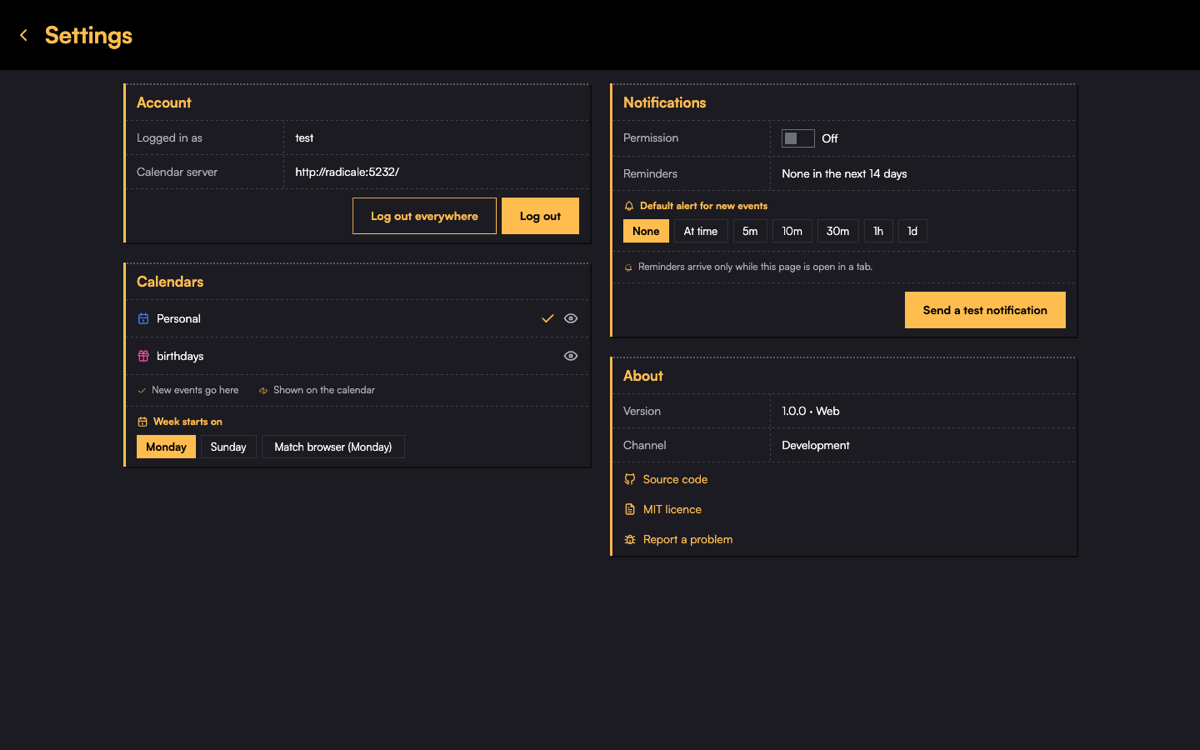
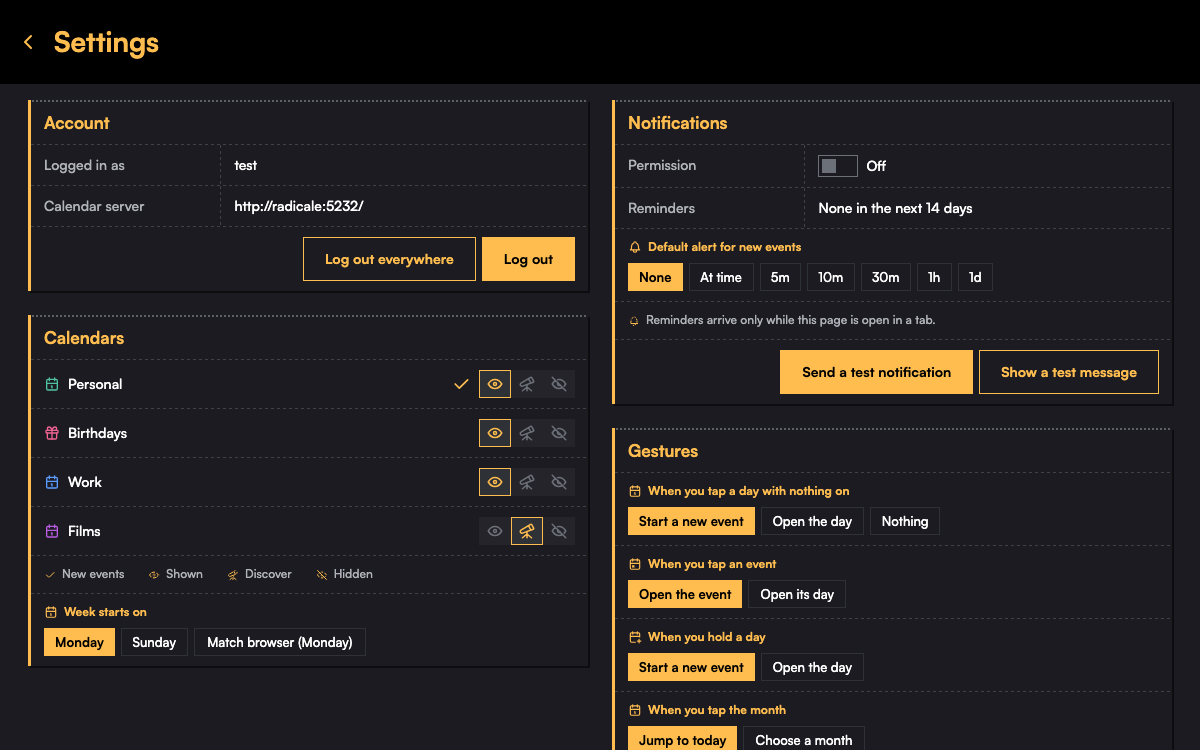
docs: the README describes the picker, discover and Gestures, with new pictures
The grid's range, the month picker, discover mode with going on one date
or all, and the Gestures setting. All ten pictures retaken on made-up
data: the phone set on the emulator's sample calendar, the web set from
the throwaway e2e Radicale seeded with the same events.

diff --git a/README.md b/README.md
@@ -17,9 +17,10 @@ its reminders on the device itself.
 - Every calendar on the account is read at once, and each event carries its own
   calendar's colour and marker glyph, so the month reads as one calendar without
   the calendars being merged.
-- The grid is a single ribbon of weeks spanning five years either side of today,
-  snapped to month starts. A month boundary is a landing point rather than a
-  separate screen, so a week is never drawn twice and scrolling never restarts.
+- The grid is a single ribbon of weeks from 1900 to 2100, snapped to month
+  starts. A month boundary is a landing point rather than a separate screen, so
+  a week is never drawn twice and scrolling never restarts. Holding the month
+  name opens a picker for jumping straight to any month of any year.
 - Fetched months accumulate and are only ever replaced by a fresher fetch,
   never dropped on navigation, which is what used to make events vanish
   mid-scroll. Neighbouring months are prefetched outward in waves.
@@ -34,6 +35,17 @@ its reminders on the device itself.
 - A repeating event is edited or deleted for this occurrence, this and the
   following ones, or all of them; the series' exceptions move with it. Undo
   puts back exactly what was there, into the calendar it came from.
+- Each calendar is shown, hidden, or kept for discover mode: a calendar that
+  something else fills with things that might be worth doing, such as a
+  cinema's showings. The telescope turns the grid over to those, and a tick
+  marks one as going, which puts it on the calendar and the widget with a
+  reminder. For a repeating one it asks whether the answer is for that date or
+  every date. hitome never edits, moves or deletes a discover event, so the
+  feed that writes it stays in charge.
+- What a tap and a hold do is a setting, per device: whether tapping an empty
+  day starts an event, opens the day or does nothing, whether tapping an event
+  opens it or its day, what a hold does, and whether tapping the month name
+  goes to today or opens the month picker.
 - Reminders are scheduled as one alarm per concrete occurrence inside a rolling
   two-week horizon, because the platform has no recurring trigger. Every open
   re-derives the whole set and reschedules it, since a force-stop can wipe the
